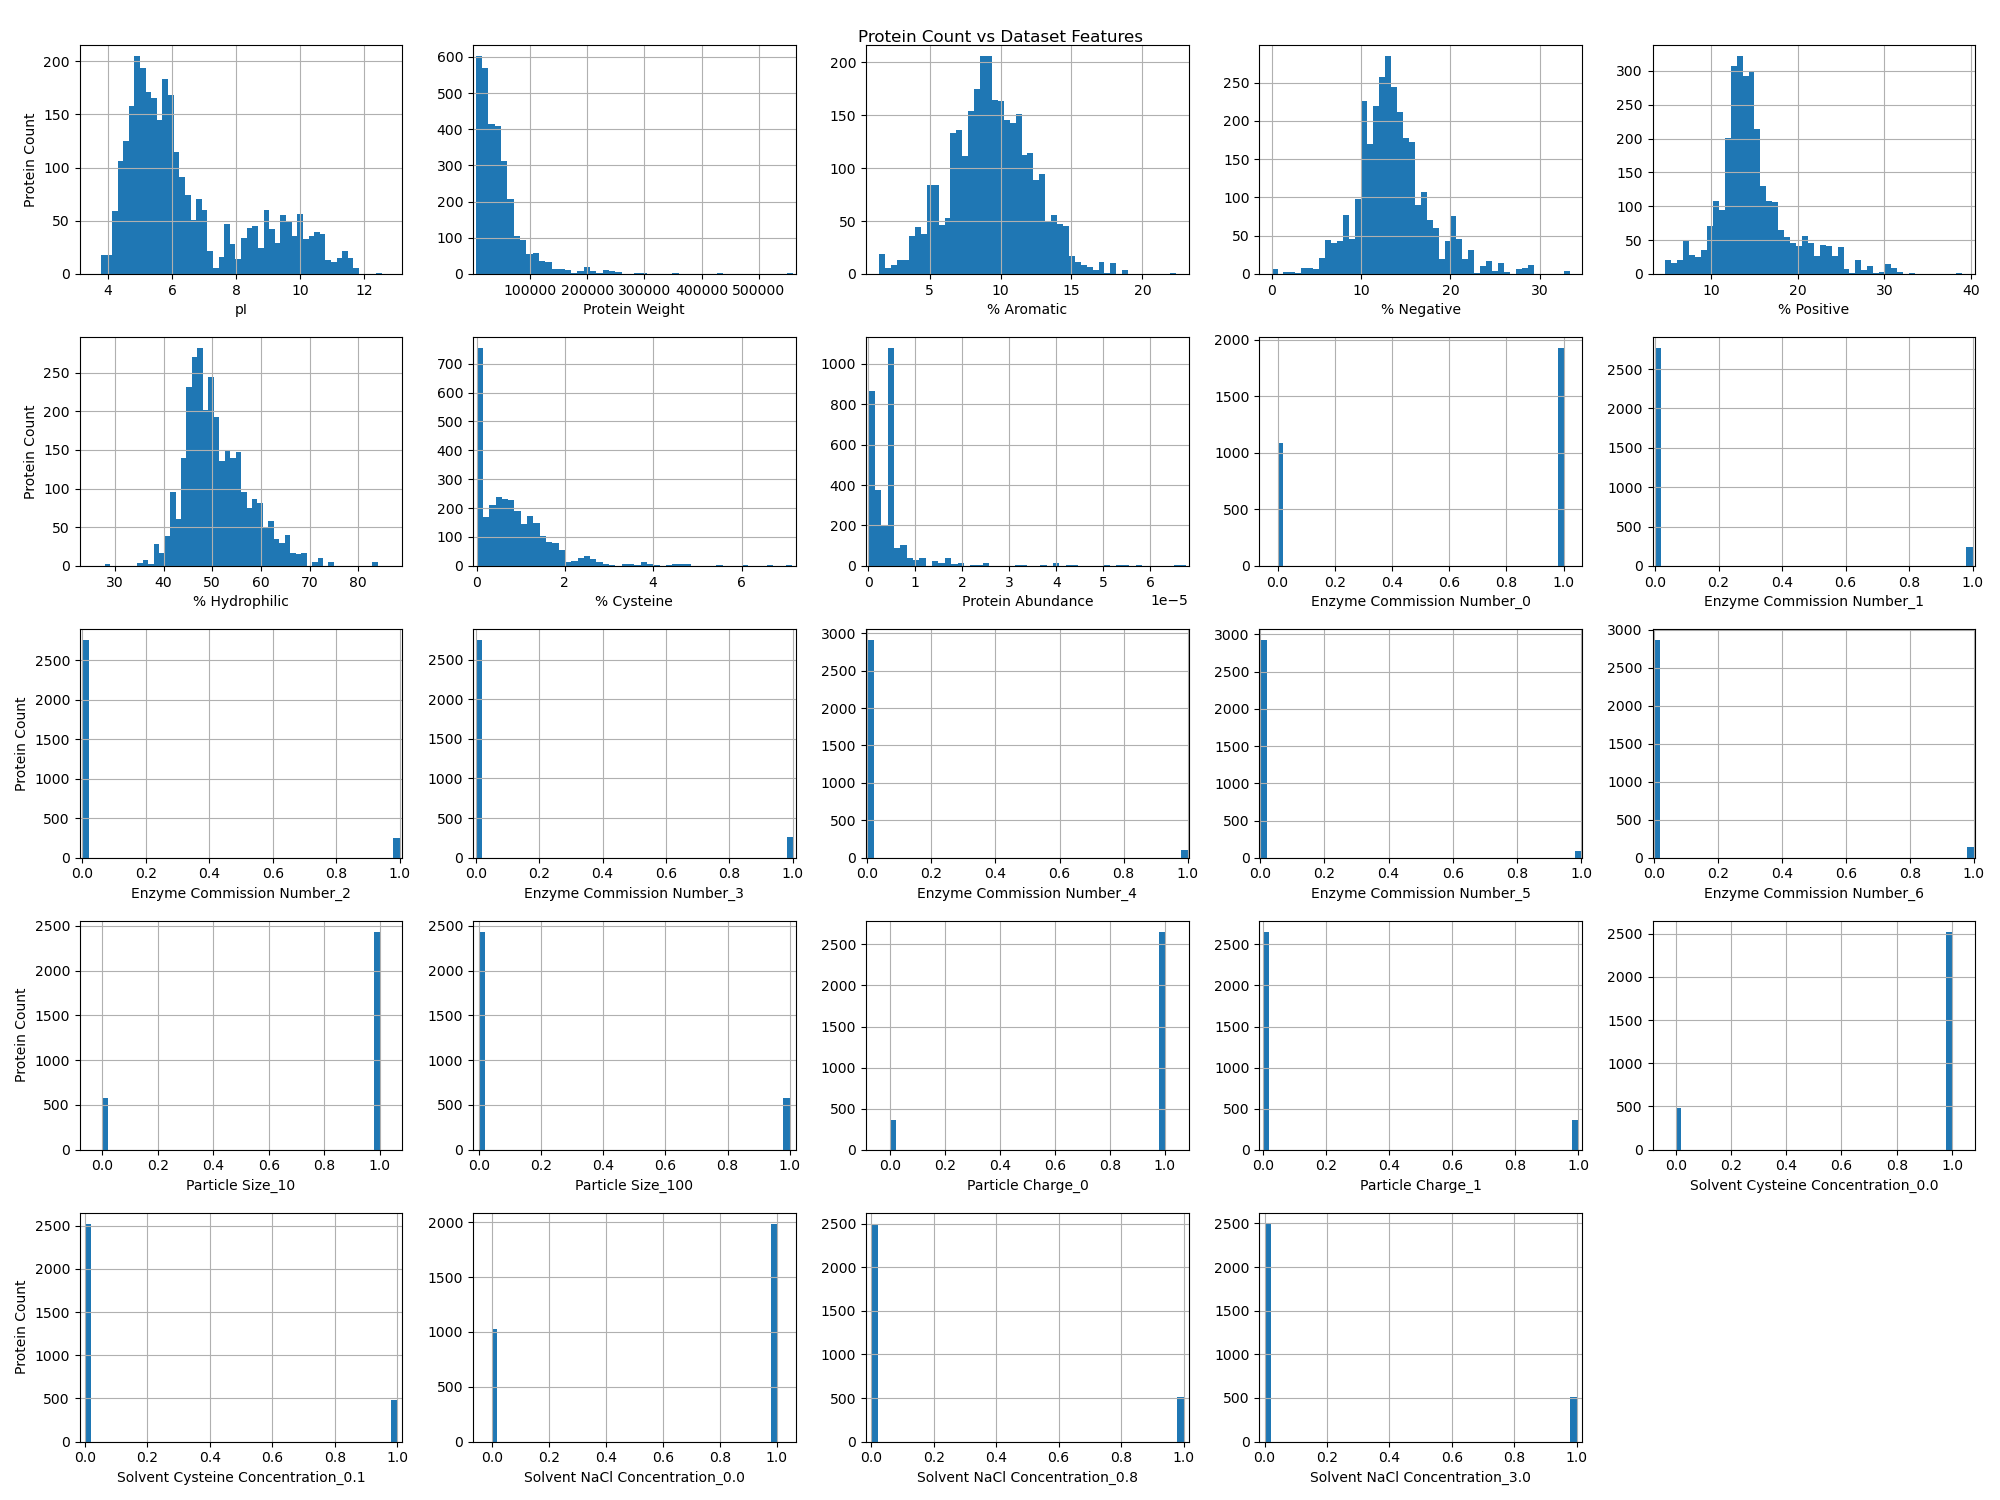
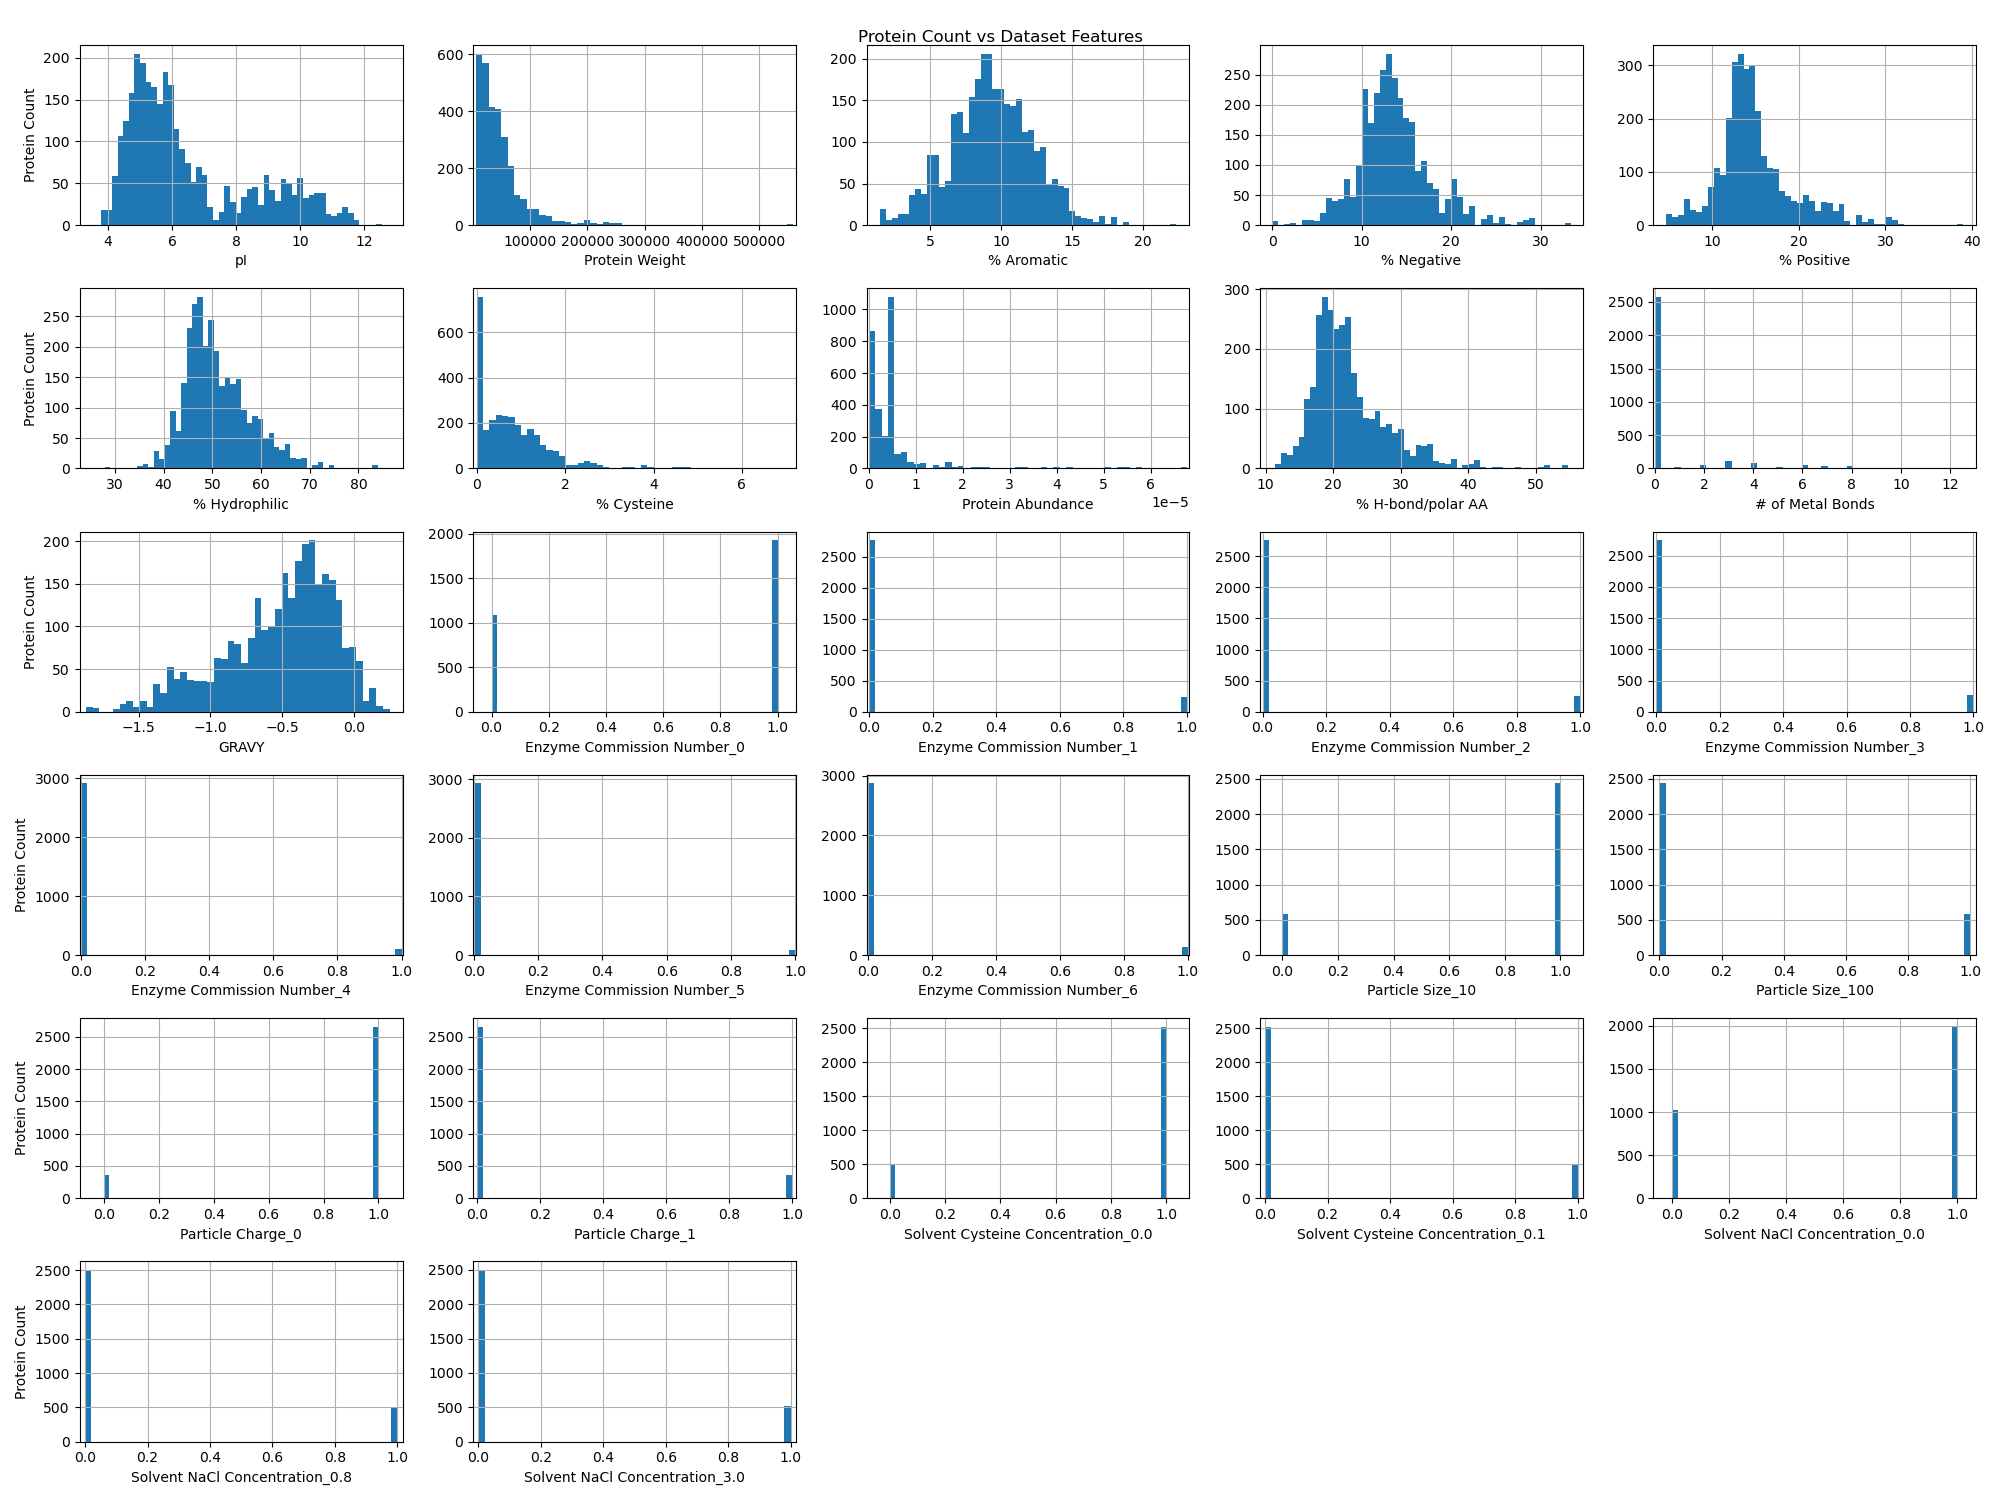
Updated basic data visualizations for newer dataset

diff --git a/visualization_utils.py b/visualization_utils.py
@@ -349,7 +349,7 @@ def visualize_rfecv(grid_scores):
 if __name__ == "__main__":
     db = data_utils.data_base()
     # db.raw_data = "Input_Files/database.csv"
-    db.raw_data = "Reformatted_Files/_new_database.csv"
+    db.raw_data = "Reformatted_Files/_updated_database.csv"
     bound_fraction_data = db.raw_data['Bound Fraction']
     db.clean_raw_data()
 
